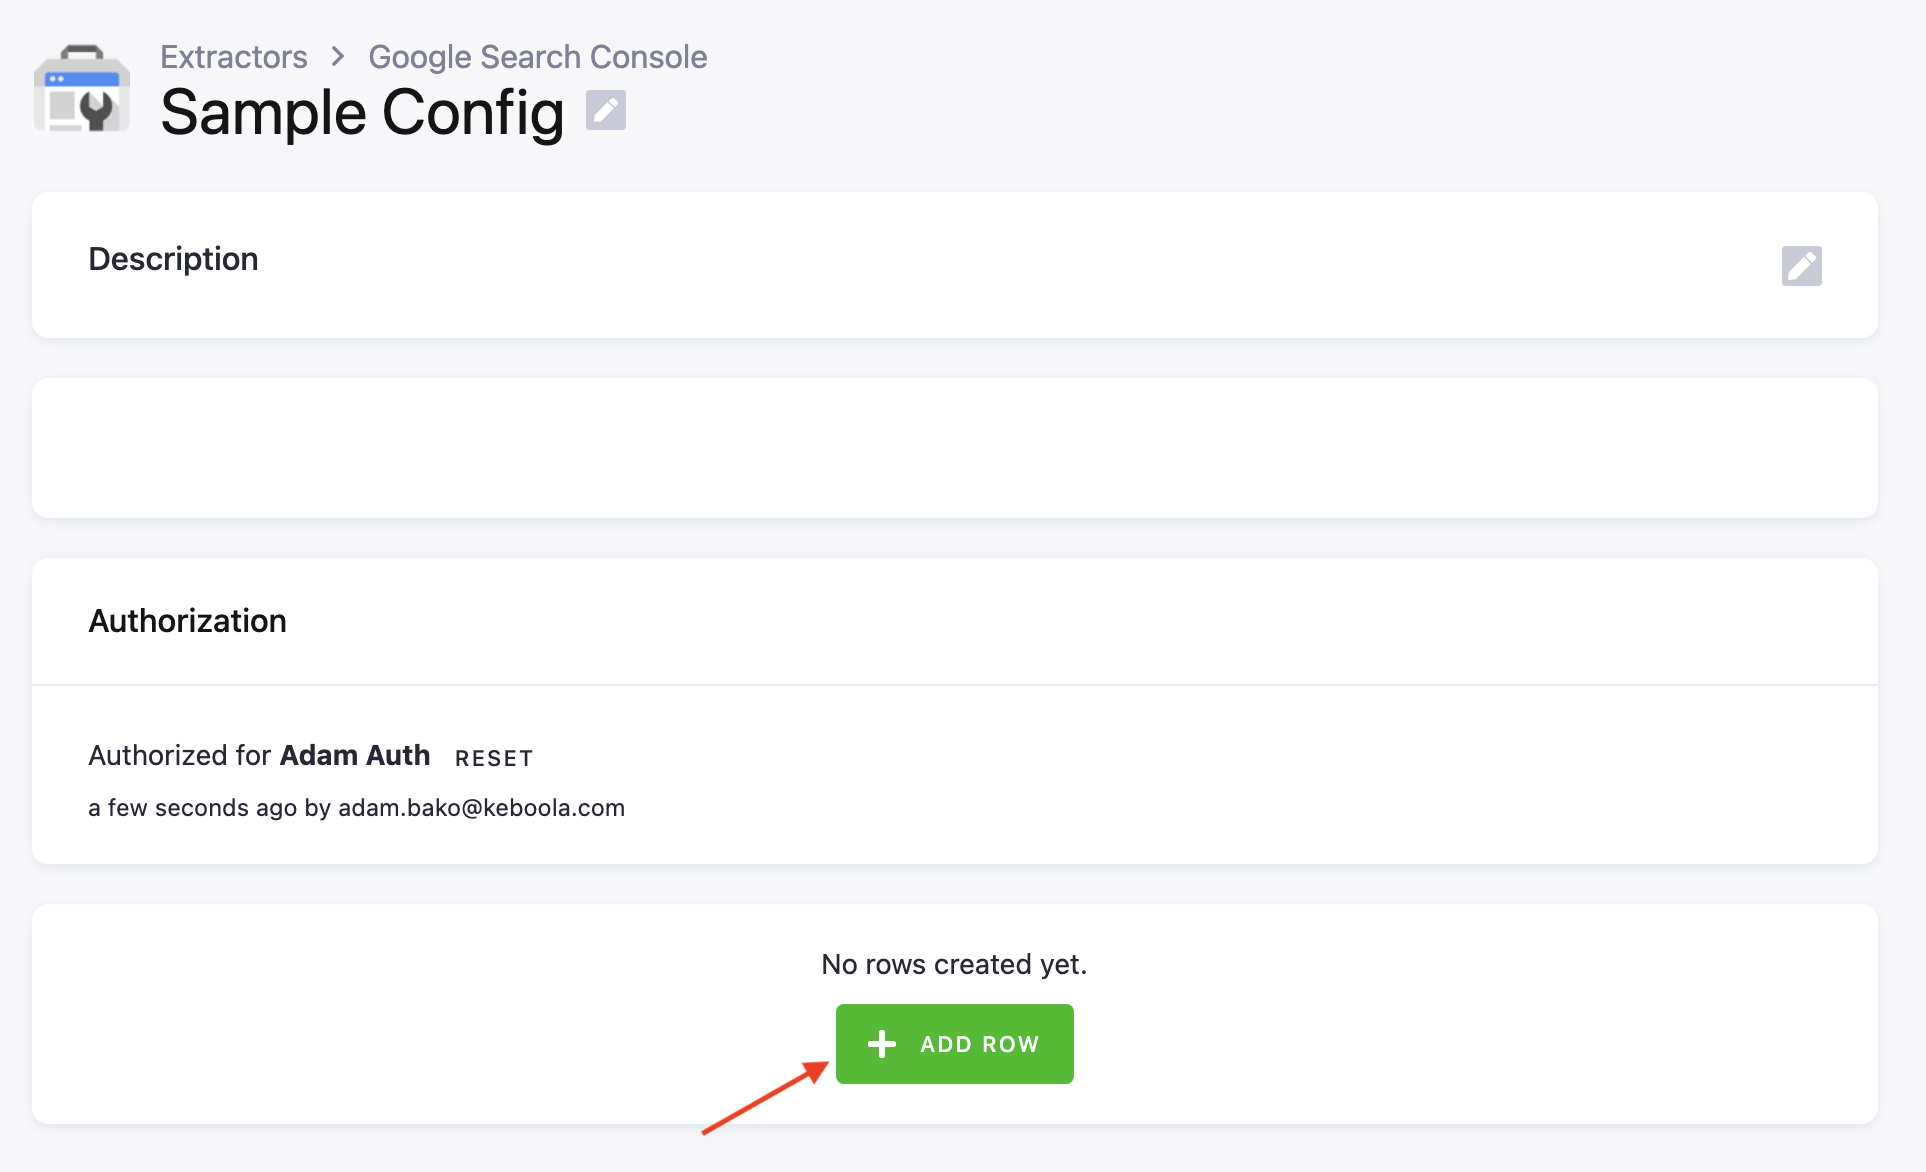
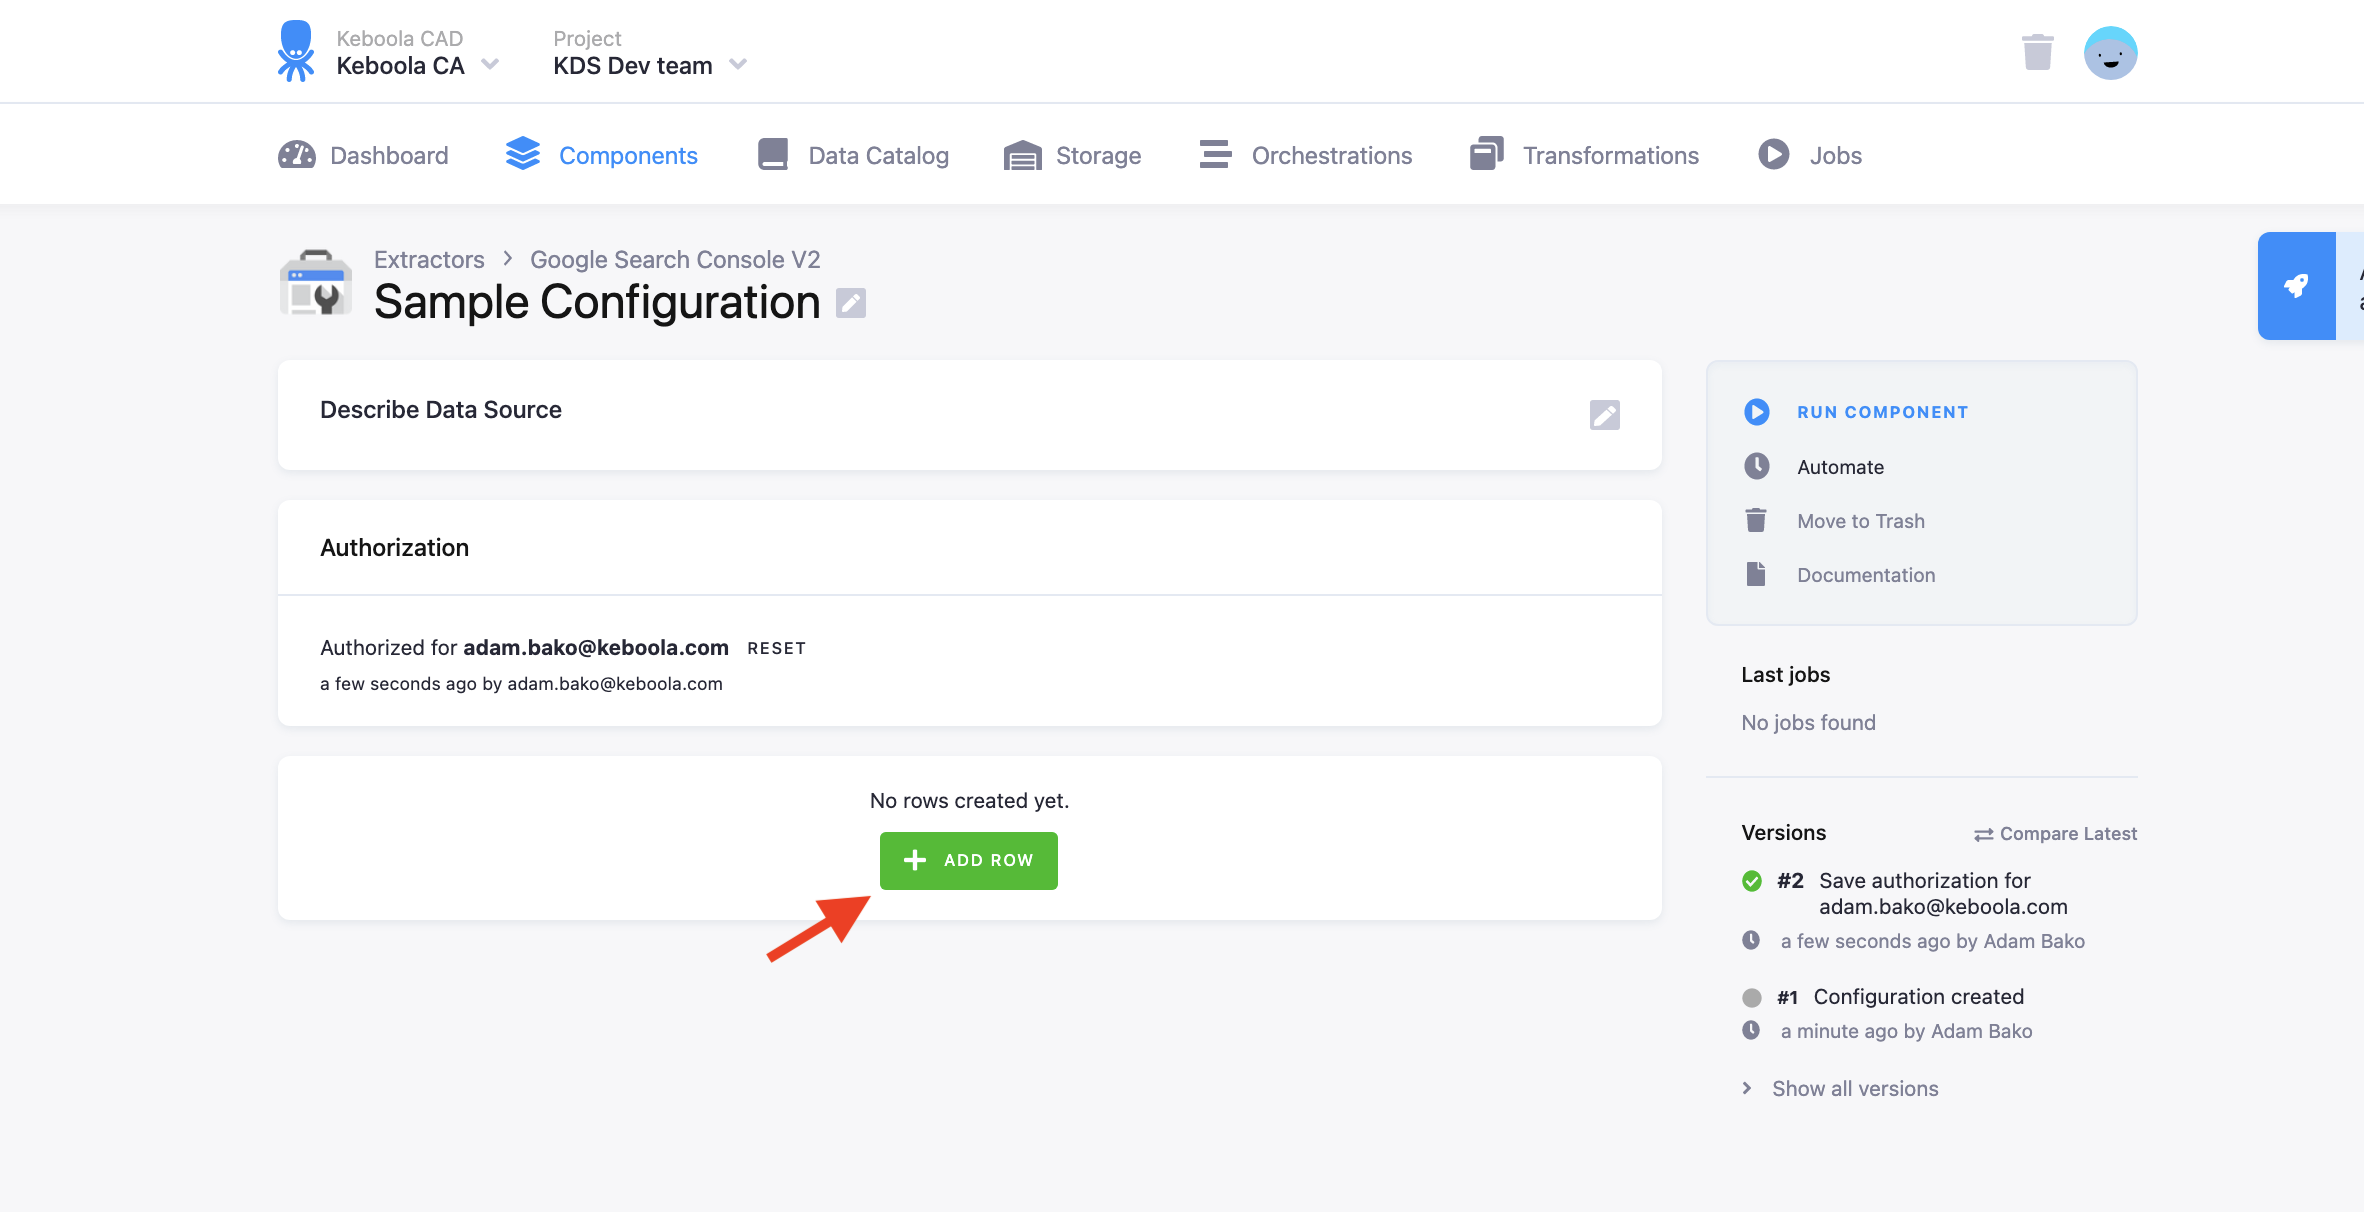
updates to conform to docs

diff --git a/components/extractors/other/google-search-console/index.md b/components/extractors/other/google-search-console/index.md
@@ -19,6 +19,9 @@ endpoint.
 [Create a new configuration](/components/#creating-component-configuration) of the **Google Search Console** extractor.
 Then click **Authorize Account** to [authorize the configuration](/components/#authorization).
 
+{: .image-popup}
+![Screenshot - Component Config](/components/extractors/other/google-search-console/auth.png)
+
 ## Row configuration
 
 Add a row to the configuration to extract a specific report.
@@ -30,7 +33,7 @@ Add a row to the configuration to extract a specific report.
 To extract a search analytics report select the "Search analytics" endpoint.
 
 {: .image-popup}
-![Screenshot - Search analytics Config](/components/extractors/other/google-search-console/search_analytics_main.png)
+![Screenshot - Search analytics Config](/components/extractors/other/google-search-console/row_config.png)
 
 - Fill in the domain to extract data from, it should not contain "https://www." before the name of the domain.
 - Fill in the dimensions you wish extract data from. Possible dimensions are; country, device, page, query,searchAppearance (searchAppearance cannot be combined with other fields)
@@ -41,14 +44,28 @@ To extract a search analytics report select the "Search analytics" endpoint.
 - Next you can add filters to the data using the Filters section
   - Filters are managed with filter groups, filters within a group work with AND, therefore all statements must be true. While filter groups work with OR, therefore at least one filter group must be true to return data
 - To create a new filter group click the **Add Filter Group** button 
+
+{: .image-popup}
+![Screenshot - Search analytics Config](/components/extractors/other/google-search-console/filters.png)
   
 {: .image-popup}
 ![Screenshot - Search analytics Config](/components/extractors/other/google-search-console/filter1.png)
 
-- To create a new filter within a filter group click the **Add Filter** button and specify the dimension, operator and expression
+- To create a new filter within a filter group click the **Add Filter** button and specify the dimension, operator and expression.
+
+When using filters make sure to use the Incremental load option, otherwise there are possibilities for duplicate data.
 
 {: .image-popup}
 ![Screenshot - Search analytics Config](/components/extractors/other/google-search-console/filter2.png)
+
+#### Loading options
+
+There is an option to select a load type, **Full load** is set by default meaning the table in storage is overwritten
+every time. **Incremental** appends new data and updates existing rows in the table using a primary key. The primary key is always set as the 
+dimensions set in the configuration.
+
+{: .image-popup}
+![Screenshot - Sitemaps Config](/components/extractors/other/google-search-console/loading_options.png)
 
 Click save and run the configuration.
 
